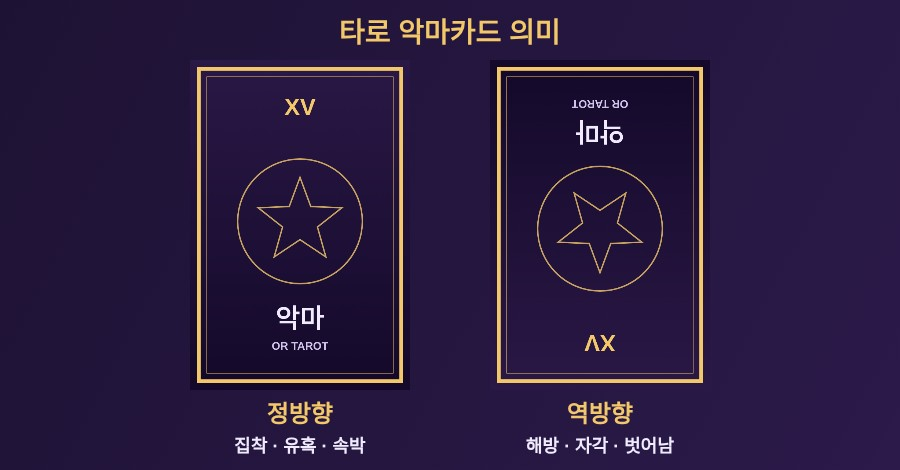
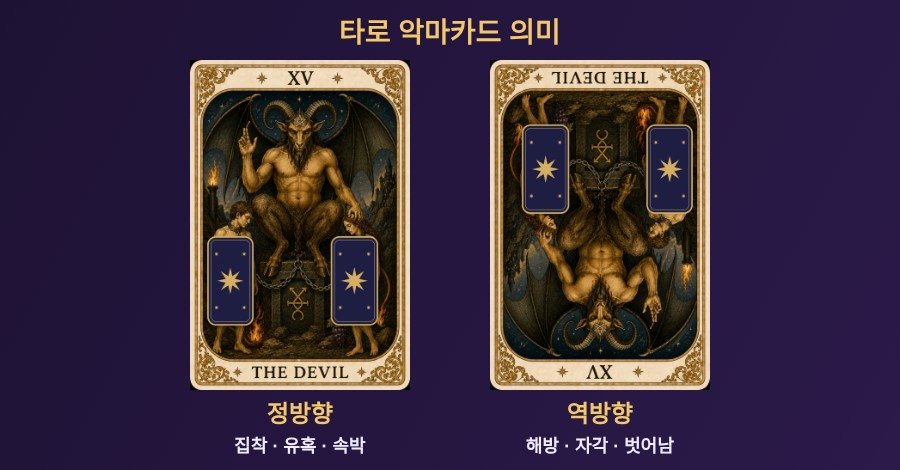
blog: 연인·악마·별·심판·세계 실제 카드 그림(악마·별은 노출 부위 가림), update.js 예약 글 유지
Claude-Session: https://claude.ai/code/session_01UdSacmfLABNdGkm1EK4VF5

diff --git a/blog/update.js b/blog/update.js
@@ -1,4 +1,4 @@
-// 이미 있는 글(공개)의 본문·제목·태그를 새 원고로 바꾼다. 발행일·공개 상태는 그대로.
+// 이미 있는 글(공개·예약)의 본문·제목·태그를 새 원고로 바꾼다. 발행일 그대로, 예약 글은 p.at으로 예약 유지.
 const NAME='__NAME__',SHA='__SHA__';const sleep=ms=>new Promise(r=>setTimeout(r,ms));
 for(let i=0;i<40&&!(window.tinymce&&tinymce.activeEditor&&tinymce.activeEditor.getBody()&&document.getElementById('tagText'));i++) await sleep(300);
 await sleep(800);
@@ -25,6 +25,16 @@ for(const tg of p.tags){inp.focus();sv.call(inp,tg);inp.dispatchEvent(new Event(
  await sleep(400);if(!rb.classList.contains('active')) throw new Error('represent not set');}
 [...document.querySelectorAll('button')].find(b=>b.textContent.trim()==='완료').click();await sleep(1000);
 document.getElementById('open20').click();await sleep(200);
+if(p.at&&new Date(p.at.replace(' ','T')+':00+09:00')>new Date()){
+const sv2=Object.getOwnPropertyDescriptor(HTMLInputElement.prototype,'value').set;
+[...document.querySelectorAll('button.btn_date')].find(b=>b.textContent.trim()==='예약').click();await sleep(400);
+const [d,tm]=p.at.split(' ');const [Y,M,D]=d.split('-').map(Number);const [hh,mm]=tm.split(':');
+if(!document.querySelector('.box_calendar')||!document.querySelector('.box_calendar').offsetParent){document.querySelector('.btn_reserve').click();await sleep(400);}
+for(let i=0;i<14;i++){if(document.querySelector('.txt_calendar').textContent.trim()===`${Y}년 ${M}월`)break;document.querySelector('.box_calendar .btn_next').click();await sleep(250);}
+const day=[...document.querySelectorAll('.tbl_calendar .btn_day')].find(b=>b.textContent.trim()===String(D)&&!b.disabled);if(!day) throw new Error('no day');day.click();await sleep(300);
+for(const [id,v] of [['dateHour',hh],['dateMinute',mm]]){const e=document.getElementById(id);e.focus();sv2.call(e,v);e.dispatchEvent(new Event('input',{bubbles:true}));e.dispatchEvent(new Event('change',{bubbles:true}));e.dispatchEvent(new Event('blur',{bubbles:true}));}
+await sleep(300);const chk=[document.querySelector('.btn_reserve').textContent.trim(),document.getElementById('dateHour').value,document.getElementById('dateMinute').value];
+if(chk[0]!==d||chk[1]!==hh||chk[2]!==mm) throw new Error('date mismatch '+chk.join(' '));}
 if(!document.querySelector('.box_thumb .thumb_g')) throw new Error('no thumbnail');
 if(ed.getContent().length<4000) throw new Error('content too short '+ed.getContent().length);
 document.getElementById('publish-btn').click();

diff --git a/blog/covered/make.py b/blog/covered/make.py
@@ -1,0 +1,26 @@
+# 노출 부위를 불투명 문양 패널로 가린 카드 그림 (2026-11-23 주인님 결정)
+import math
+from PIL import Image, ImageDraw, ImageFilter
+SRC='/home/claude/ortarot-app/mobile/www/assets/cards/'
+R={15:[(80,820,295,1235),(655,820,875,1235)],17:[(375,690,660,860)]}
+GOLD=(214,175,96); NAVY=(28,30,66)
+def star(d,cx,cy,r,fill):
+    pts=[]
+    for k in range(16):
+        a=math.pi/8*k-math.pi/2; rr=r if k%2==0 else r*0.38
+        pts.append((cx+rr*math.cos(a),cy+rr*math.sin(a)))
+    d.polygon(pts,fill=fill)
+for i,boxes in R.items():
+    im=Image.open(f'{SRC}{i:02d}.webp').convert('RGB')
+    sh=Image.new('L',im.size,0); ds=ImageDraw.Draw(sh)
+    for b in boxes: ds.rounded_rectangle((b[0]+8,b[1]+10,b[2]+8,b[3]+10),40,fill=140)
+    im.paste((0,0,0),(0,0),sh.filter(ImageFilter.GaussianBlur(12)))
+    d=ImageDraw.Draw(im)
+    for x0,y0,x1,y1 in boxes:
+        d.rounded_rectangle((x0,y0,x1,y1),40,fill=NAVY,outline=GOLD,width=7)
+        d.rounded_rectangle((x0+16,y0+16,x1-16,y1-16),28,outline=GOLD+(0,),width=2)
+        cx,cy=(x0+x1)/2,(y0+y1)/2; star(d,cx,cy,min(x1-x0,y1-y0)*0.28,GOLD)
+        for dx,dy in ((-0.3,-0.3),(0.3,0.3),(0.3,-0.3),(-0.3,0.3)):
+            star(d,cx+dx*(x1-x0),cy+dy*(y1-y0),9,GOLD)
+    im.save(f'covered/{i:02d}.png')
+print('ok')
